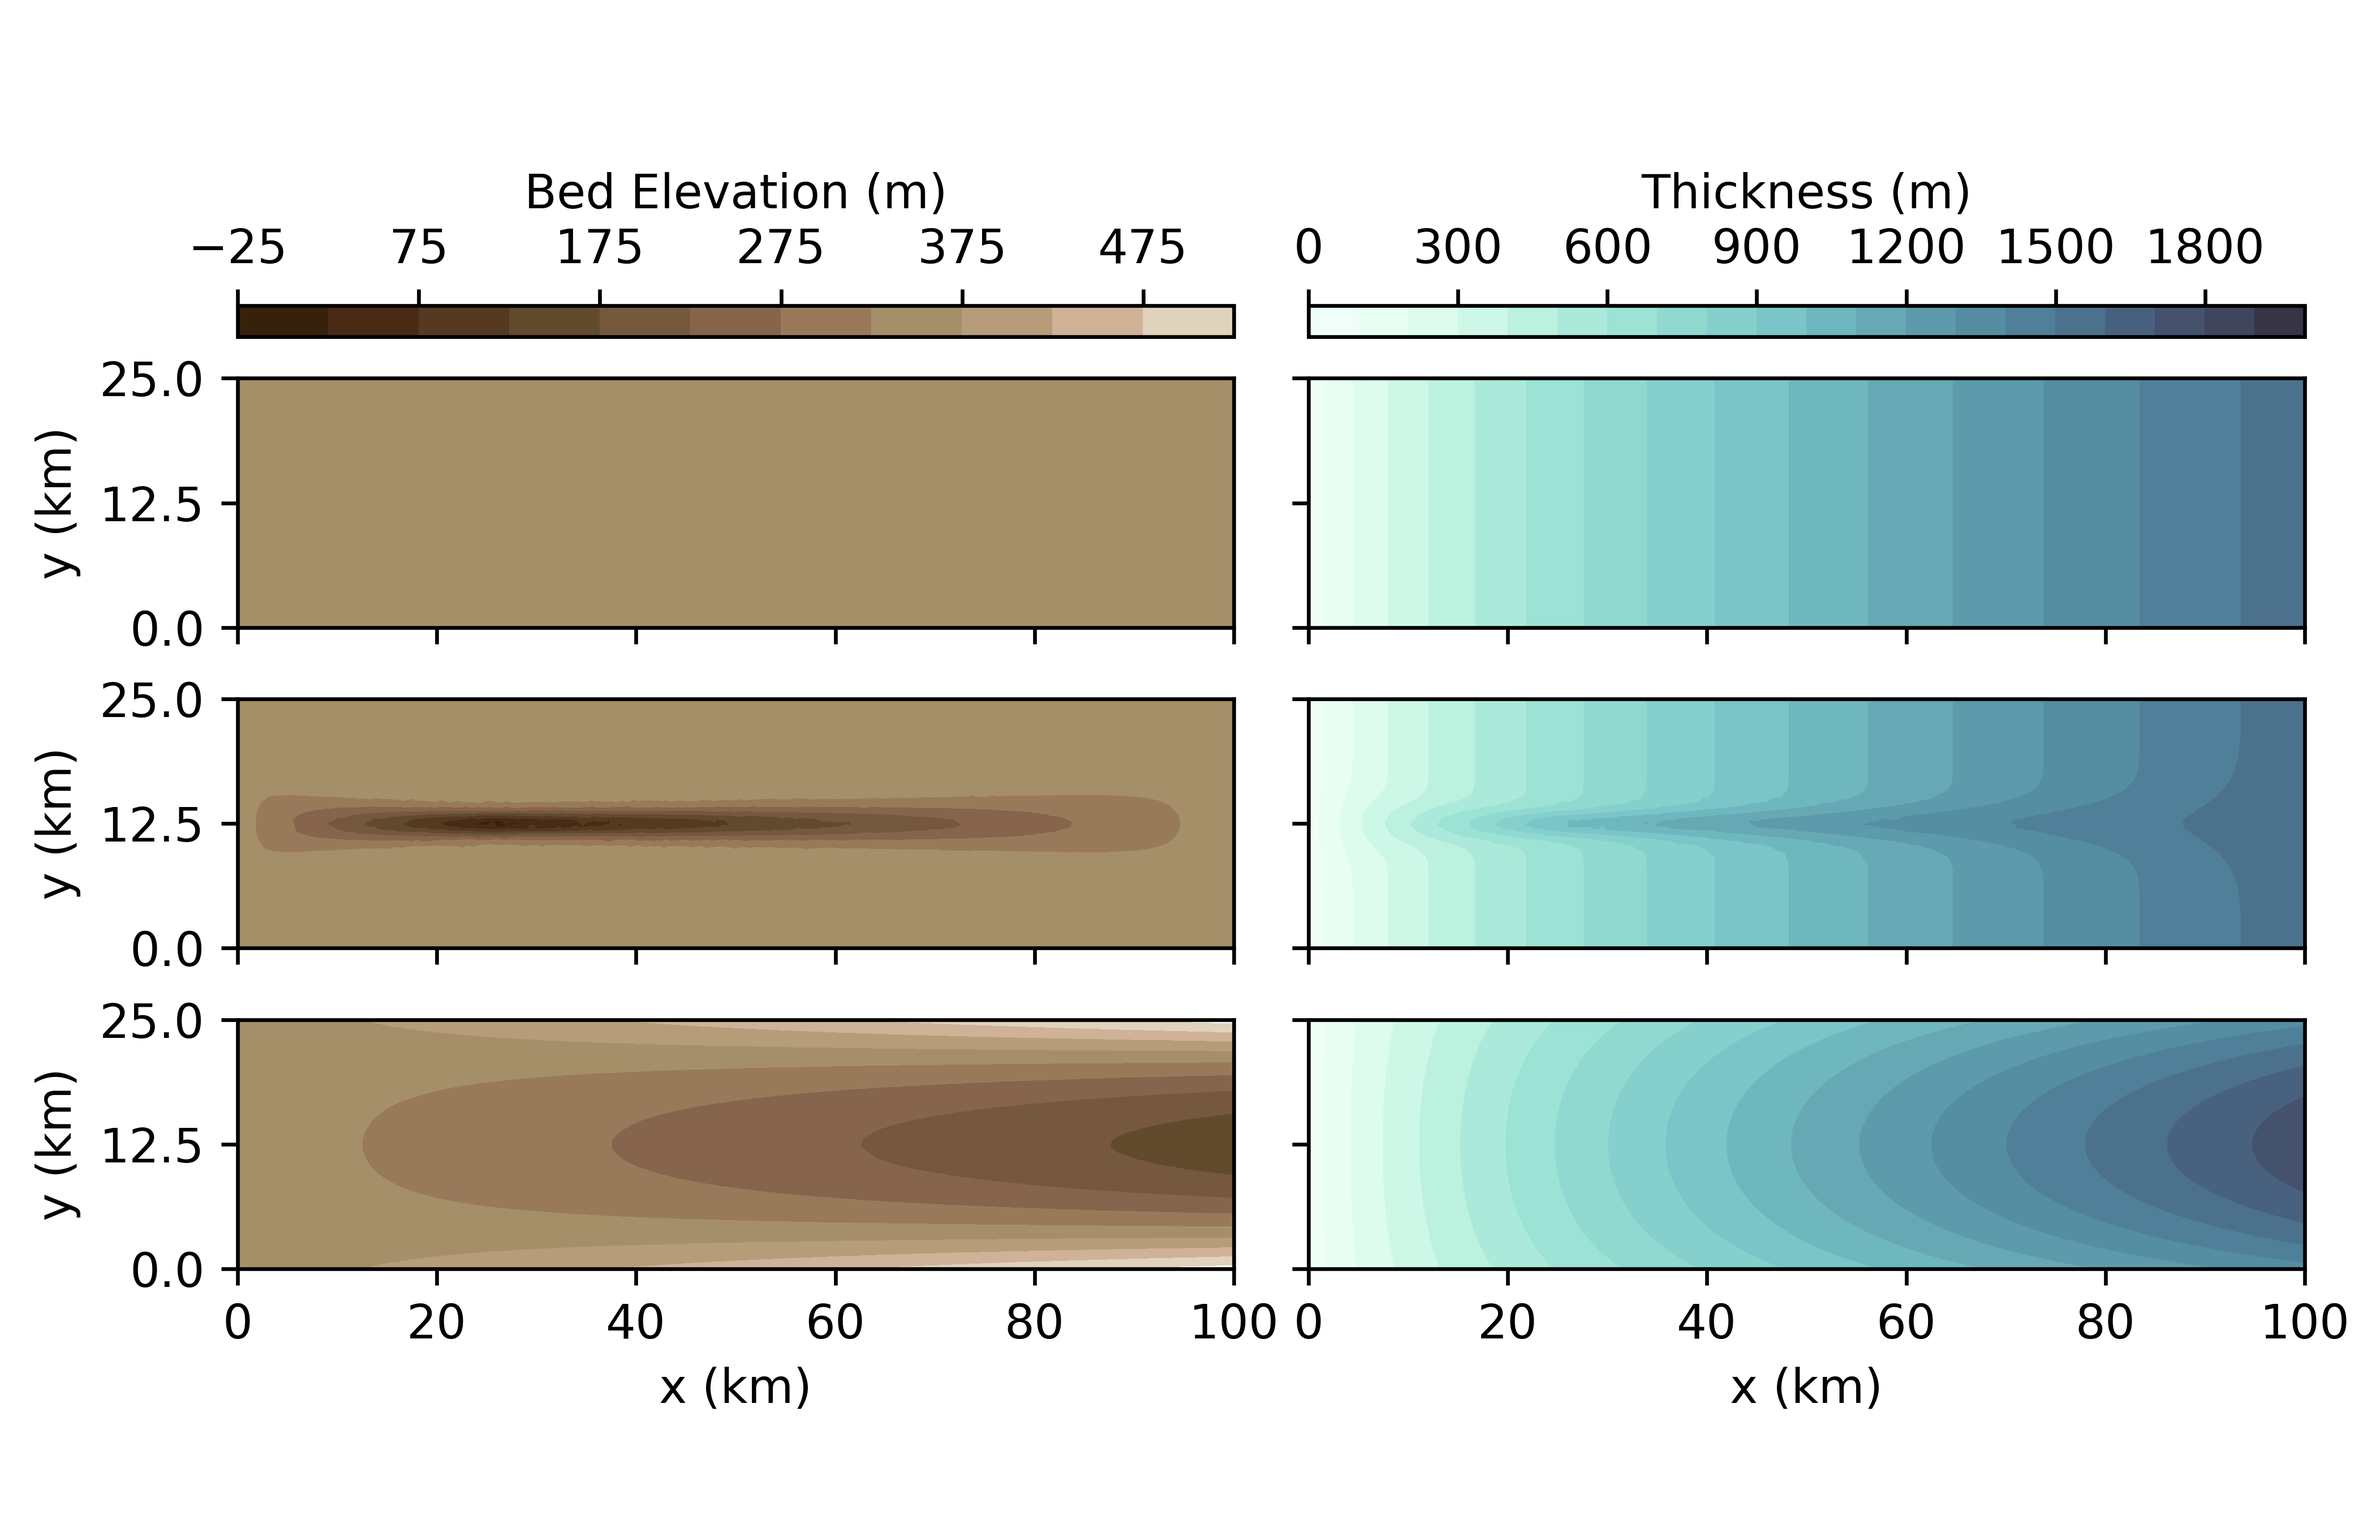
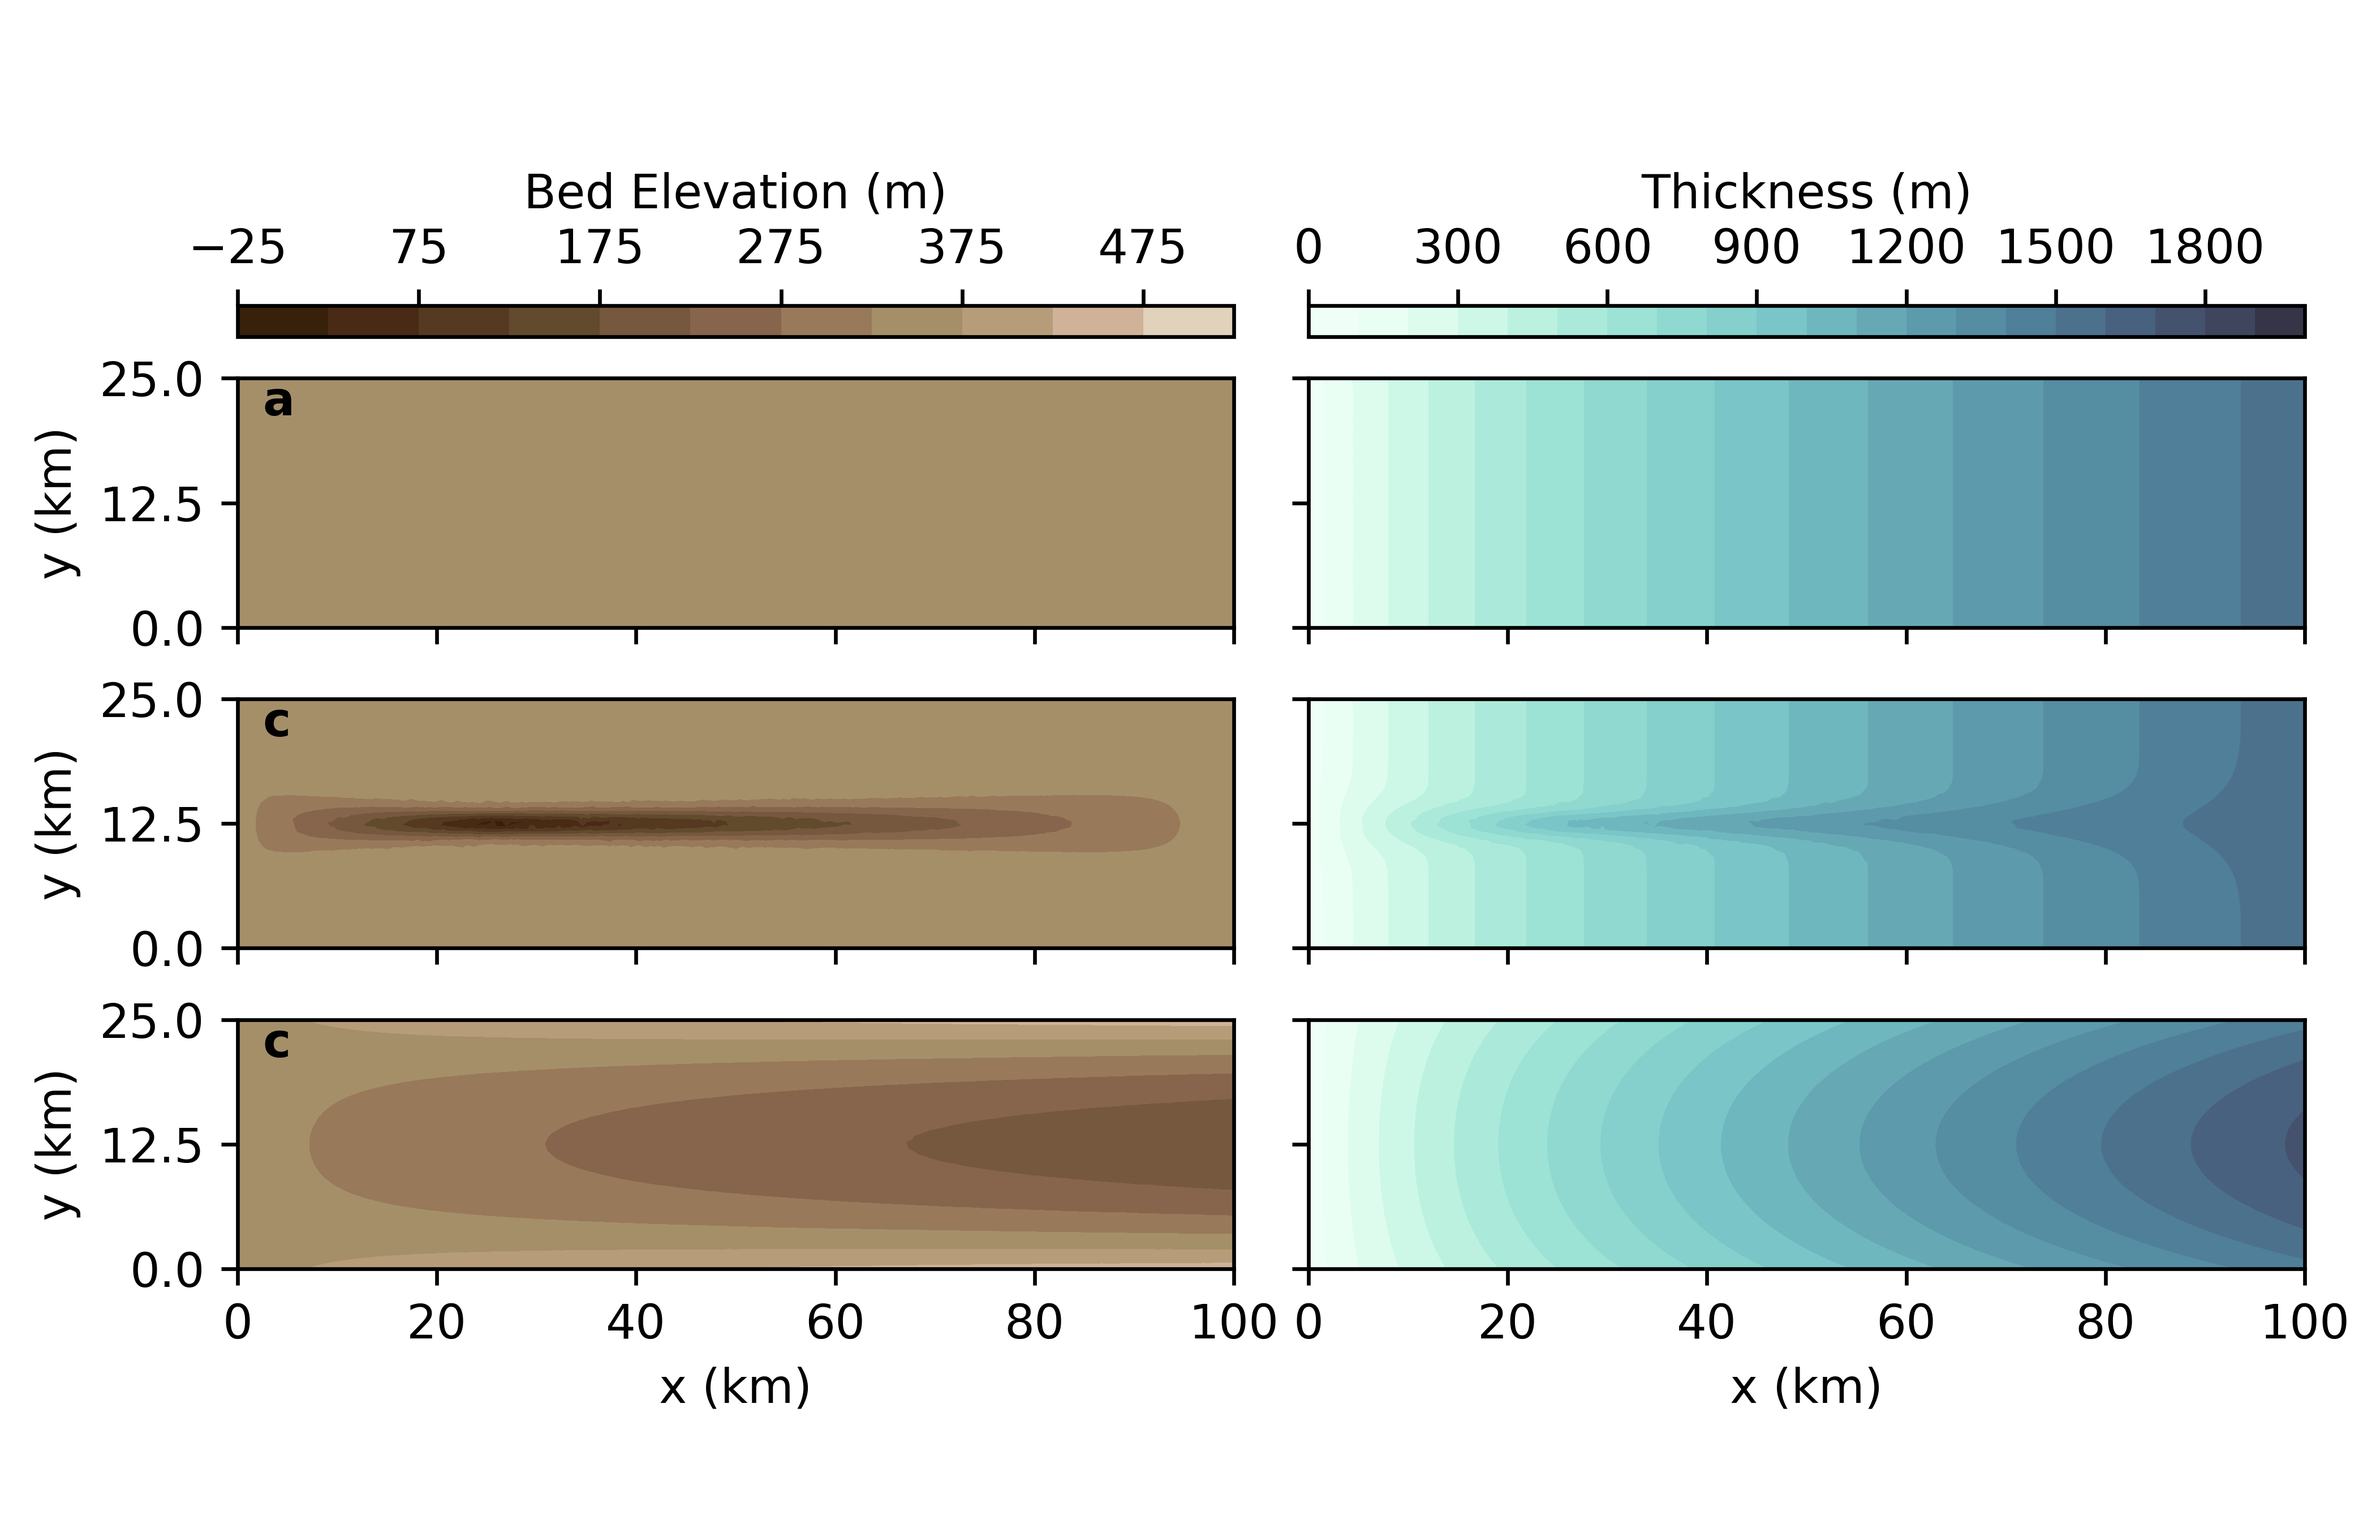
Update thickness figures

Changed region(s): [[0.2807, 0.8089, 0.5302, 0.84], [0.3119, 0.6533, 0.5302, 0.6844], [0.0936, 0.2489, 0.1248, 0.28]]

diff --git a/analysis/plot_domains.py b/analysis/plot_domains.py
@@ -15,7 +15,7 @@ dmesh = nc.Dataset('../glads/data/mesh/mesh_04.nc')
 nodes = dmesh['tri/nodes'][:].data.T
 connect = dmesh['tri/connect'][:].data.T.astype(int) - 1
 
-out_trough = nc.Dataset('../glads/02a_synth_forcing_trough/RUN/output_203_seasonal.nc')
+out_trough = nc.Dataset('../glads/02a_synth_forcing_trough/RUN/output_003_seasonal.nc')
 
 out_valley = nc.Dataset('../glads/02b_synth_forcing_valley/RUN/output_003_seasonal.nc')
 
@@ -62,17 +62,18 @@ for ax in axs.flat:
 axT = axs.T
 axT[0, 0].set_xticklabels([])
 axT[0, 1].set_xticklabels([])
-axT[0, 0].text(0.025, 0.9, 'a', transform=axT[0, 0].transAxes, fontweight='bold')
+axT[0, 0].text(0.025, 0.85, 'a', transform=axT[0, 0].transAxes, fontweight='bold')
+
 
 axT[1, 0].set_xticklabels([])
 axT[1, 1].set_xticklabels([])
-axT[1, 0].text(0.025, 0.9, 'c', transform=axT[1, 0].transAxes, fontweight='bold')
+axT[1, 0].text(0.025, 0.85, 'c', transform=axT[1, 0].transAxes, fontweight='bold')
 # axT[0, 2].set_xticklabels([])
 
 axT[0, 1].set_yticklabels([])
 axT[1, 1].set_yticklabels([])
 axT[2, 1].set_yticklabels([])
-axT[2, 0].text(0.025, 0.9, 'c', transform=axT[2, 0].transAxes, fontweight='bold')
+axT[2, 0].text(0.025, 0.85, 'c', transform=axT[2, 0].transAxes, fontweight='bold')
 
 axT[0, 0].set_ylabel('y (km)')
 axT[1, 0].set_ylabel('y (km)')
